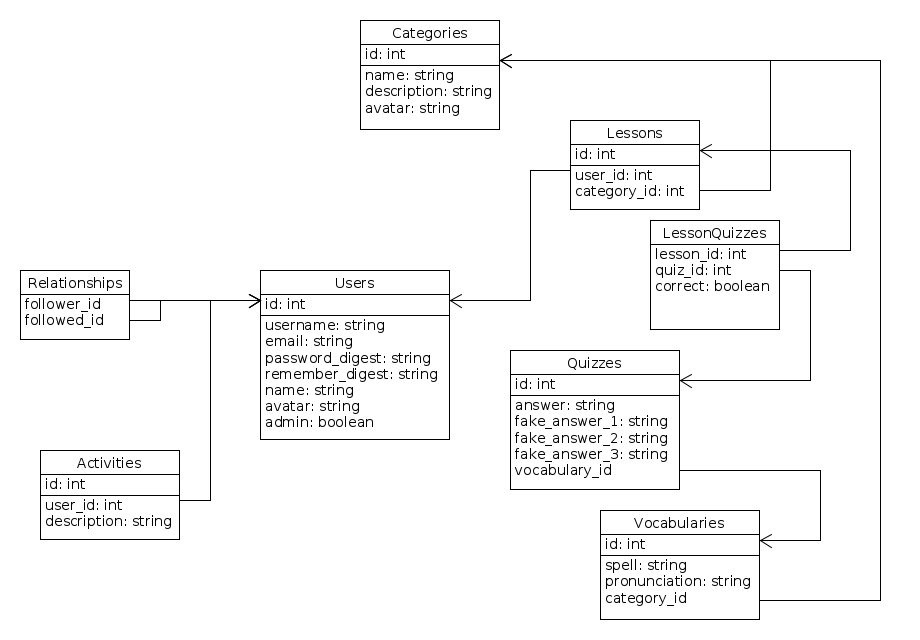
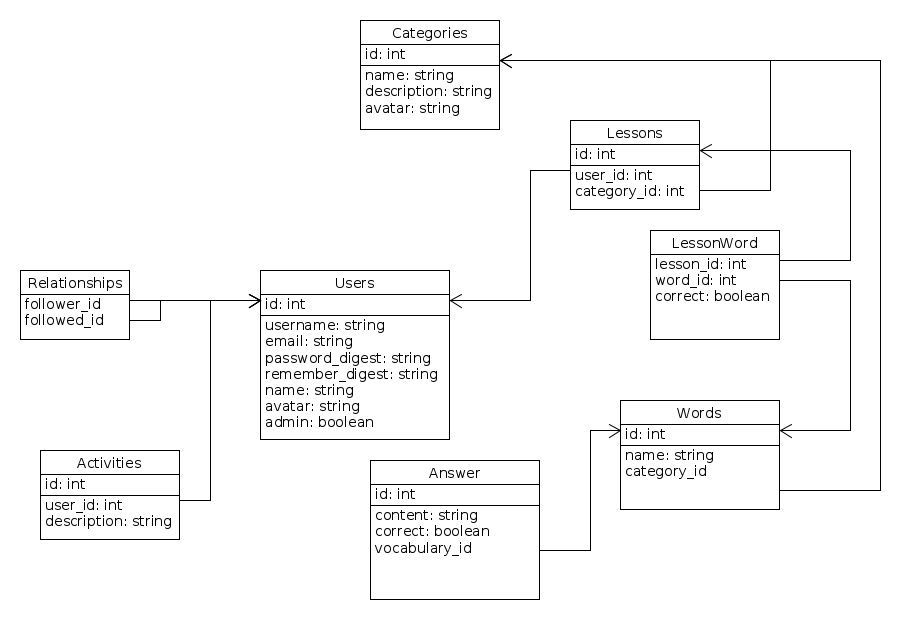
Restart Model/DB

diff --git a/db/schema.rb b/db/schema.rb
@@ -11,7 +11,7 @@
 #
 # It's strongly recommended that you check this file into your version control system.
 
-ActiveRecord::Schema.define(version: 20150404062836) do
+ActiveRecord::Schema.define(version: 20150413013652) do
 
   # These are extensions that must be enabled in order to support this database
   enable_extension "plpgsql"
@@ -25,6 +25,16 @@ ActiveRecord::Schema.define(version: 20150404062836) do
 
   add_index "activities", ["user_id"], name: "index_activities_on_user_id", using: :btree
 
+  create_table "answers", force: :cascade do |t|
+    t.string   "content",                    null: false
+    t.boolean  "correct",    default: false
+    t.integer  "word_id"
+    t.datetime "created_at",                 null: false
+    t.datetime "updated_at",                 null: false
+  end
+
+  add_index "answers", ["word_id"], name: "index_answers_on_word_id", using: :btree
+
   create_table "categories", force: :cascade do |t|
     t.string   "name",        null: false
     t.string   "description"
@@ -35,17 +45,17 @@ ActiveRecord::Schema.define(version: 20150404062836) do
 
   add_index "categories", ["name"], name: "index_categories_on_name", unique: true, using: :btree
 
-  create_table "lesson_quizzes", force: :cascade do |t|
+  create_table "lesson_words", force: :cascade do |t|
     t.integer  "lesson_id"
-    t.integer  "quiz_id"
+    t.integer  "word_id"
     t.boolean  "correct"
     t.datetime "created_at", null: false
     t.datetime "updated_at", null: false
   end
 
-  add_index "lesson_quizzes", ["lesson_id", "quiz_id"], name: "index_lesson_quizzes_on_lesson_id_and_quiz_id", unique: true, using: :btree
-  add_index "lesson_quizzes", ["lesson_id"], name: "index_lesson_quizzes_on_lesson_id", using: :btree
-  add_index "lesson_quizzes", ["quiz_id"], name: "index_lesson_quizzes_on_quiz_id", using: :btree
+  add_index "lesson_words", ["lesson_id", "word_id"], name: "index_lesson_words_on_lesson_id_and_word_id", unique: true, using: :btree
+  add_index "lesson_words", ["lesson_id"], name: "index_lesson_words_on_lesson_id", using: :btree
+  add_index "lesson_words", ["word_id"], name: "index_lesson_words_on_word_id", using: :btree
 
   create_table "lessons", force: :cascade do |t|
     t.integer  "user_id"
@@ -56,18 +66,6 @@ ActiveRecord::Schema.define(version: 20150404062836) do
 
   add_index "lessons", ["category_id"], name: "index_lessons_on_category_id", using: :btree
   add_index "lessons", ["user_id"], name: "index_lessons_on_user_id", using: :btree
-
-  create_table "quizzes", force: :cascade do |t|
-    t.string   "answer"
-    t.string   "fake_answer_1"
-    t.string   "fake_answer_2"
-    t.string   "fake_answer_3"
-    t.integer  "vocabulary_id"
-    t.datetime "created_at",    null: false
-    t.datetime "updated_at",    null: false
-  end
-
-  add_index "quizzes", ["vocabulary_id"], name: "index_quizzes_on_vocabulary_id", using: :btree
 
   create_table "relationships", force: :cascade do |t|
     t.integer  "follower_id"
@@ -94,23 +92,23 @@ ActiveRecord::Schema.define(version: 20150404062836) do
 
   add_index "users", ["username"], name: "index_users_on_username", unique: true, using: :btree
 
-  create_table "vocabularies", force: :cascade do |t|
-    t.string   "spell",       null: false
+  create_table "words", force: :cascade do |t|
+    t.string   "name",        null: false
     t.integer  "category_id"
     t.datetime "created_at",  null: false
     t.datetime "updated_at",  null: false
   end
 
-  add_index "vocabularies", ["category_id"], name: "index_vocabularies_on_category_id", using: :btree
-  add_index "vocabularies", ["spell"], name: "index_vocabularies_on_spell", unique: true, using: :btree
+  add_index "words", ["category_id"], name: "index_words_on_category_id", using: :btree
+  add_index "words", ["name"], name: "index_words_on_name", unique: true, using: :btree
 
   add_foreign_key "activities", "users"
-  add_foreign_key "lesson_quizzes", "lessons"
-  add_foreign_key "lesson_quizzes", "quizzes"
+  add_foreign_key "answers", "words"
+  add_foreign_key "lesson_words", "lessons"
+  add_foreign_key "lesson_words", "words"
   add_foreign_key "lessons", "categories"
   add_foreign_key "lessons", "users"
-  add_foreign_key "quizzes", "vocabularies"
   add_foreign_key "relationships", "users", column: "followed_id"
   add_foreign_key "relationships", "users", column: "follower_id"
-  add_foreign_key "vocabularies", "categories"
+  add_foreign_key "words", "categories"
 end

diff --git a/db/migrate/20150404062836_create_lesson_words.rb b/db/migrate/20150404062836_create_lesson_words.rb
@@ -1,0 +1,15 @@
+class CreateLessonWords < ActiveRecord::Migration
+  def change
+    create_table :lesson_words do |t|
+      t.integer :lesson_id, index: true
+      t.integer :word_id, index: true
+      t.boolean :correct
+
+      t.timestamps null: false
+    end
+
+    add_index :lesson_words, [:lesson_id, :word_id], unique: true
+    add_foreign_key :lesson_words, :lessons
+    add_foreign_key :lesson_words, :words
+  end
+end

diff --git a/app/models/category.rb b/app/models/category.rb
@@ -1,10 +1,7 @@
 class Category < ActiveRecord::Base
   has_many :lessons, dependent: :destroy
-  has_many :vocabularies, dependent: :destroy
+  has_many :words, dependent: :destroy
   
-  accepts_nested_attributes_for :vocabularies, allow_destroy: true,
-    reject_if: lambda {|attributes| attributes['spell'].blank?}
-
   validates :name,  presence: true, uniqueness: true
   
   mount_uploader :avatar, AvatarUploader

diff --git a/db/seeds.rb b/db/seeds.rb
@@ -41,9 +41,9 @@ end
 
 Category.all.each do |category|
   30.times do |n|
-    spell = Faker::Lorem.word + " " + Faker::Lorem.word
+    name = Faker::Lorem.word
     begin
-      Vocabulary.create!(spell: spell, category_id: category.id)
+      Word.create!(name: name, category_id: category.id)
     rescue Exception => e
     end
   end

diff --git a/db/migrate/20150413013652_create_answers.rb b/db/migrate/20150413013652_create_answers.rb
@@ -1,0 +1,13 @@
+class CreateAnswers < ActiveRecord::Migration
+  def change
+    create_table :answers do |t|
+      t.string :content, null: false
+      t.boolean :correct, default: false
+      t.integer :word_id, index: true
+
+      t.timestamps null: false
+    end
+
+    add_foreign_key :answers, :words
+  end
+end

diff --git a/db/migrate/20150404061750_create_words.rb b/db/migrate/20150404061750_create_words.rb
@@ -1,0 +1,12 @@
+class CreateWords < ActiveRecord::Migration
+  def change
+    create_table :words do |t|
+      t.string :name, index: {unique: true}, null: false
+      t.integer :category_id, index: true
+
+      t.timestamps null: false
+    end
+
+    add_foreign_key :words, :categories
+  end
+end

diff --git a/app/models/lesson.rb b/app/models/lesson.rb
@@ -1,6 +1,6 @@
 class Lesson < ActiveRecord::Base
   belongs_to :user
   belongs_to :category
-  has_many :lesson_quizzes, dependent: :destroy
-  has_many :quizzes, through: :lesson_quizzes
+  has_many :lesson_words, dependent: :destroy
+  has_many :words, through: :lesson_words
 end

diff --git a/app/models/word.rb b/app/models/word.rb
@@ -1,0 +1,6 @@
+class Word < ActiveRecord::Base
+  belongs_to :category
+  has_many :answers, dependent: :destroy
+
+  validates :name,  presence: true, uniqueness: true
+end

diff --git a/app/models/answer.rb b/app/models/answer.rb
@@ -1,0 +1,6 @@
+class Answer < ActiveRecord::Base
+  belongs_to :word
+
+  validates :content,  presence: true
+  validates :correct,  presence: true
+end

diff --git a/app/models/activity.rb b/app/models/activity.rb
@@ -1,3 +1,5 @@
 class Activity < ActiveRecord::Base
   belongs_to :user
+
+  validates :description,  presence: true
 end

diff --git a/app/models/lesson_word.rb b/app/models/lesson_word.rb
@@ -1,0 +1,4 @@
+class LessonWord < ActiveRecord::Base
+  belongs_to :lesson
+  belongs_to :word
+end
